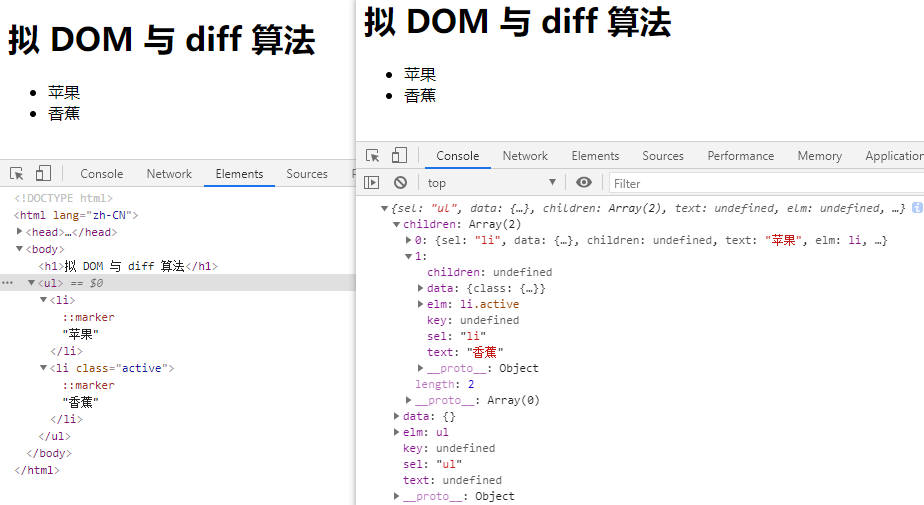
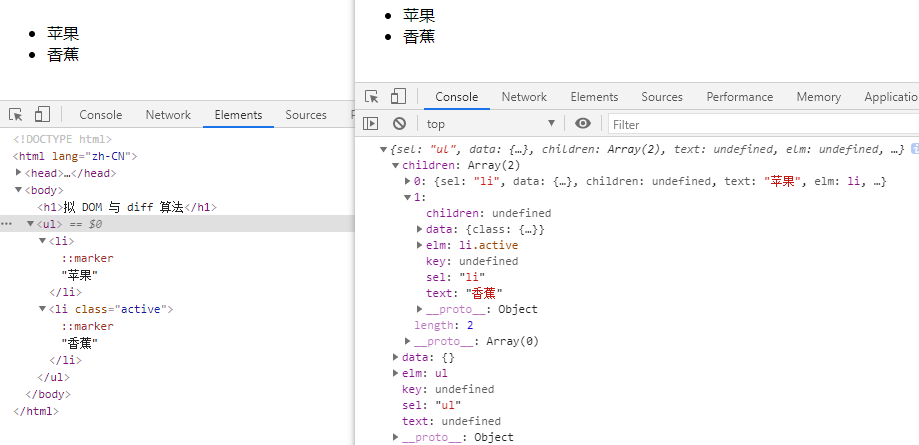
手写h函数

Changed region(s): [[0.0, 0.0, 1.0, 1.0]]

diff --git a/src/vue/diff/src/js/mySnabbdom/h.js b/src/vue/diff/src/js/mySnabbdom/h.js
@@ -1,0 +1,38 @@
+import vnode from "./vnode.js";
+
+/**
+ * 这个函数只实现3个参数功能，缺一不可
+ * 调用形态必须为下面三种之一：
+ *  形态① h('div', {}, '文字')
+ *  形态② h('div', {}, [])
+ *  形态③ h('div', {}, h())
+ */
+
+export default function h(sel, data, c) {
+    // 检测参数个数
+    if (arguments.length !== 3) throw new Error("h函数必须传入三个参数");
+
+    // 检测参数c的类型
+
+    if (typeof c === "string" || typeof c === "number") {
+        // 说明是形态①
+        return vnode(sel, data, undefined, c, undefined);
+    } else if (Array.isArray(c)) {
+        // 说明是形态②
+        // 收集children
+        let children = [];
+        for (let i = 0; i < c.length; i++) {
+            // 检测c[i]
+            if (!(typeof c[i] === "object" && c[i].hasOwnProperty("sel")))
+                throw new Error("传入的数组参数中有项不是h函数");
+            children.push(c[i]);
+        }
+        return vnode(sel, data, children, undefined, undefined);
+    } else if (typeof c === "object" && c.hasOwnProperty("sel")) {
+        // 说明是形态③
+        // 传入的c是唯一的children
+        return vnode(sel, data, [c], undefined, undefined);
+    } else {
+        throw new Error("传入的第三个参数类型不对");
+    }
+}

diff --git a/src/vue/diff/src/js/index.js b/src/vue/diff/src/js/index.js
@@ -1,32 +1,1 @@
-import { init } from "snabbdom/init";
-import { classModule } from "snabbdom/modules/class";
-import { propsModule } from "snabbdom/modules/props";
-import { styleModule } from "snabbdom/modules/style";
-import { eventListenersModule } from "snabbdom/modules/eventlisteners";
-import { h } from "snabbdom/h"; // helper function for creating vnodes
-
-// 创建patch函数
-const patch = init([
-    classModule,
-    propsModule,
-    styleModule,
-    eventListenersModule,
-]);
-
-// 创建虚拟节点
-let myVnode1 = h(
-    "a",
-    { props: { href: "https://www.bestshi.com", target: "_blank" } },
-    "Best Shi"
-);
-
-let myVnode2 = h("ul", [
-    h("li", {}, "苹果"),
-    h("li", { class: { active: true } }, "香蕉"),
-]);
-
-console.log(myVnode2);
-
-// 虚拟DOM上树
-const container = document.getElementById("container");
-patch(container, myVnode2);
+console.log(123);

diff --git a/src/vue/diff/src/js/01_h函数学习.js b/src/vue/diff/src/js/01_h函数学习.js
@@ -1,0 +1,32 @@
+import { init } from "snabbdom/init";
+import { classModule } from "snabbdom/modules/class";
+import { propsModule } from "snabbdom/modules/props";
+import { styleModule } from "snabbdom/modules/style";
+import { eventListenersModule } from "snabbdom/modules/eventlisteners";
+import { h } from "snabbdom/h"; // helper function for creating vnodes
+
+// 创建patch函数
+const patch = init([
+    classModule,
+    propsModule,
+    styleModule,
+    eventListenersModule,
+]);
+
+// 创建虚拟节点
+let myVnode1 = h(
+    "a",
+    { props: { href: "https://www.bestshi.com", target: "_blank" } },
+    "Best Shi"
+);
+
+let myVnode2 = h("ul", [
+    h("li", {}, "苹果"),
+    h("li", { class: { active: true } }, "香蕉"),
+]);
+
+console.log(myVnode2);
+
+// 虚拟DOM上树
+const container = document.getElementById("container");
+patch(container, myVnode2);

diff --git a/src/vue/diff/src/js/02_手写h函数.js b/src/vue/diff/src/js/02_手写h函数.js
@@ -1,0 +1,27 @@
+import h from "./mySnabbdom/h.js";
+
+import { init } from "snabbdom/init";
+import { classModule } from "snabbdom/modules/class";
+import { propsModule } from "snabbdom/modules/props";
+import { styleModule } from "snabbdom/modules/style";
+import { eventListenersModule } from "snabbdom/modules/eventlisteners";
+
+// 创建patch函数
+const patch = init([
+    classModule,
+    propsModule,
+    styleModule,
+    eventListenersModule,
+]);
+
+let myVnode1 = h("div", {}, [
+    h("p", {}, "你好"),
+    h("p", {}, "你好"),
+    h("p", {}, h("span", {}, "hello")),
+]);
+
+console.log(myVnode1);
+
+// 虚拟DOM上树
+const container = document.getElementById("container");
+patch(container, myVnode1);

diff --git a/src/vue/diff/src/index.html b/src/vue/diff/src/index.html
@@ -6,11 +6,11 @@
     <meta charset="UTF-8">
     <meta name="viewport" content="width=device-width, initial-scale=1.0, user-scalable=no">
     <meta http-equiv="X-UA-Compatible" content="ie=edge">
-    <title>拟 DOM 与 diff 算法</title>
+    <title>虚拟 DOM 与 diff 算法</title>
 </head>
 
 <body>
-    <h1>拟 DOM 与 diff 算法</h1>
+    <h1>虚拟 DOM 与 diff 算法</h1>
     <div id="container"></div>
 </body>
 

diff --git a/src/vue/diff/src/js/mySnabbdom/vnode.js b/src/vue/diff/src/js/mySnabbdom/vnode.js
@@ -1,0 +1,11 @@
+// vnode就是把传入的5个参数组合成对象返回
+
+export default function vnode(sel, data, children, text, elm) {
+    return {
+        sel,
+        data,
+        children,
+        text,
+        elm,
+    };
+}

diff --git a/docs/web/vue/diff/虚拟DOM与diff算法.md b/docs/web/vue/diff/虚拟DOM与diff算法.md
@@ -26,7 +26,7 @@ category: vue
 
 -   新虚拟 DOM 和老虚拟 DOM 进行 diff（精细化比较），算出应该如何最小量更新，最后反映到真正的 DO
 
-## 1、snabbdom 库学习
+## snabbdom 库安装
 
 ::: tip
 
@@ -34,15 +34,13 @@ Snabbdom 由一个非常简单，高性能和可扩展的内核组成，仅约 2
 
 :::
 
-### 1.1、snabbdom 库安装
-
 ```shell
 npm install -D snabbdom
 ```
 
-### 1.2、snabbdom 测试环境搭建
+## snabbdom 测试环境搭建
 
-#### 1.2.1、安装依赖
+### 安装依赖
 
 ```shell
 npm install -D webpack webpack-cli webpack-dev-server html-webpack-plugin
@@ -58,7 +56,7 @@ npm install -D webpack webpack-cli webpack-dev-server html-webpack-plugin
 
 :::
 
-#### 1.2.2、配置 webpack.config.js 文件
+### 配置 webpack.config.js 文件
 
 ```js
 const { resolve } = require("path");
@@ -83,7 +81,7 @@ module.exports = {
 };
 ```
 
-#### 1.2.3、运行测试案例
+### 运行测试案例
 
 ```js
 import { init } from "snabbdom/init";
@@ -124,7 +122,7 @@ const newVnode = h("div#container.two.classes", { on: { click: () => {} } }, [
 patch(vnode, newVnode); // Snabbdom efficiently updates the old view to the new state
 ```
 
-### 1.3、虚拟 DOM 与 h 函数学习
+## 虚拟 DOM 与 h 函数学习
 
 ::: info h 函数
 
@@ -149,7 +147,7 @@ h 函数用来生成虚拟节点（vnode）。
 
 :::
 
-#### 1.3.1、案例
+### 案例
 
 ```js
 // 创建patch函数
@@ -166,11 +164,105 @@ let myVnode = h("ul", [
     h("li", { class: { active: true } }, "香蕉"),
 ]);
 
-console.log(myVnode2);
-
 // 虚拟DOM上树
 const container = document.getElementById("container");
 patch(container, myVnode);
 ```
 
 <img :src="$withBase('/images/bestshi.com_2021-03-20_01-13-52.png')">
+
+### 手写低配版 h 函数
+
+**vnode 函数：**
+
+```js
+// vnode就是把传入的5个参数组合成对象返回
+
+export default function vnode(sel, data, children, text, elm) {
+    return {
+        sel,
+        data,
+        children,
+        text,
+        elm,
+    };
+}
+```
+
+**h 函数：**
+
+```js
+import vnode from "./vnode.js";
+
+/**
+ * 这个函数只实现3个参数功能，缺一不可
+ * 调用形态必须为下面三种之一：
+ *  形态① h('div', {}, '文字')
+ *  形态② h('div', {}, [])
+ *  形态③ h('div', {}, h())
+ */
+
+export default function h(sel, data, c) {
+    // 检测参数个数
+    if (arguments.length !== 3) throw new Error("h函数必须传入三个参数");
+
+    // 检测参数c的类型
+
+    if (typeof c === "string" || typeof c === "number") {
+        // 说明是形态①
+        return vnode(sel, data, undefined, c, undefined);
+    } else if (Array.isArray(c)) {
+        // 说明是形态②
+        // 收集children
+        let children = [];
+        for (let i = 0; i < c.length; i++) {
+            // 检测c[i]
+            if (!(typeof c[i] === "object" && c[i].hasOwnProperty("sel")))
+                throw new Error("传入的数组参数中有项不是h函数");
+            children.push(c[i]);
+        }
+        return vnode(sel, data, children, undefined, undefined);
+    } else if (typeof c === "object" && c.hasOwnProperty("sel")) {
+        // 说明是形态③
+        // 传入的c是唯一的children
+        return vnode(sel, data, [c], undefined, undefined);
+    } else {
+        throw new Error("传入的第三个参数类型不对");
+    }
+}
+```
+
+**测试：**
+
+```js
+// 引入自己的h函数
+import h from "./mySnabbdom/h.js";
+
+import { init } from "snabbdom/init";
+import { classModule } from "snabbdom/modules/class";
+import { propsModule } from "snabbdom/modules/props";
+import { styleModule } from "snabbdom/modules/style";
+import { eventListenersModule } from "snabbdom/modules/eventlisteners";
+
+// 创建patch函数
+const patch = init([
+    classModule,
+    propsModule,
+    styleModule,
+    eventListenersModule,
+]);
+
+let myVnode1 = h("div", {}, [
+    h("p", {}, "你好"),
+    h("p", {}, "你好"),
+    h("p", {}, h("span", {}, "hello")),
+]);
+
+console.log(myVnode1);
+
+// 虚拟DOM上树
+const container = document.getElementById("container");
+patch(container, myVnode1);
+```
+
+<img :src="$withBase('/images/bestshi.com_2021-03-20_15-34-42.png')">
